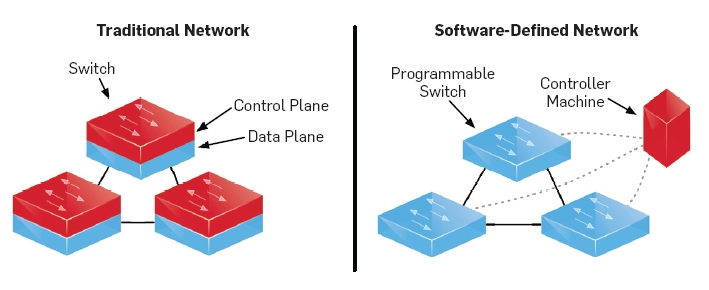
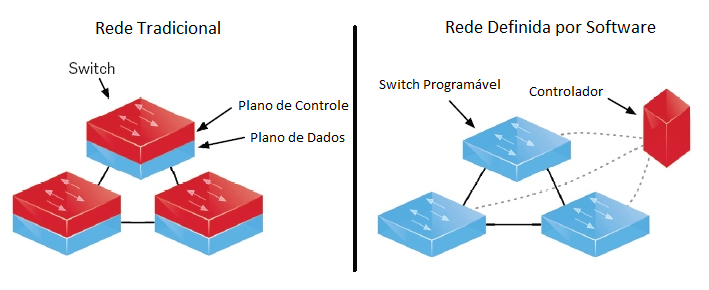
Avanços em Ferramentas, Definição e Conclusão

diff --git a/index.html b/index.html
@@ -67,18 +67,12 @@
 				<h1>Definição</h1>
 
 				<p>
-					Redes Definidas por Software (SDN) é uma tecnologia que, através da separação dos planos de controle e dados, facilita o gerenciamento da rede ao permitir que um único controlador seja capaz de controlar múltiplos dispositivos. Isso é alcançado ao tornar o controle da rede algo facilmente programável e abstraindo a infraestrutura da rede de modo a facilitar a adoção de novas aplicações e serviços de rede.
-				</p>
-
-				<h1>Separação dos Planos</h1>
-
-				<p>
-					A principal característica de SDN é a separação do plano de dados do plano de controle. Na arquitetura atual, estes estão acoplados e são individuais por cada nó da rede, atuando em conjunto de modo a encaminhar os pacotes recebidos. Após a separação, o plano de controle passa a ser responsável pela parte "inteligente" da rede, determinando quais serão as rotas seguidas por novos pacotes; por outro lado, o plano de dados fica responsável somente pelo próprio encaminhamento físico dos pacotes. Com SDN, um controlador passa a ser responsável pelo gerenciamento de múltiplos nós da rede, abrindo assim a possibilidade de toda a rede ser configurada a partir de um único nó central.
+					Redes Definidas por Software (SDN) são caracterizadas pela separação física entre o plano de controle e o plano de dados. Com essa separação, o controle de mecanismos de encaminhamento passa a ser implementado através de uma interface de programação implementada mediante um controlador, que fica localizado no plano de controle. Desse modo, através dessa interface o administrador de rede é capaz de inspecionar, definir e alterar as entradas da tabela de roteamento dos comutadores desejados, e estes passam a ser responsáveis somente pelo processo de encaminhamento dos pacotes recebidos. Além disso, com SDN um controlador passa a ser responsável pelo gerenciamento de múltiplos nós da rede, abrindo assim a possibilidade de toda a rede ser configurada a partir de um único nó central. Ao abstrair a infraestrutura da rede de modo a facilitar a construção de novas aplicações e serviços, a tecnologia busca reduzir a atual "calcificação" vista na Internet.
 				</p>
 
 				<img id="sdn-planos" src="imagens/sdn1.png">
 				<br>
-				<span><i>Comparação dos planos de controle e dados na arquitetura tradicional e com SDN. Retirado de: https://commsbusiness.co.uk/features/software-defined-networking-sdn-explained/</i></span>	
+				<span><i>Comparação dos planos de controle e dados na arquitetura tradicional e com SDN. Adaptado de: https://commsbusiness.co.uk/features/software-defined-networking-sdn-explained/</i></span>	
 
 				<h1>Controlador</h1>
 
@@ -87,7 +81,7 @@
 				</p>
 
 				<p>
-					A visão global da topologia da rede possibilita o desenvolvimento de análises detalhadas sobre características do fucionamento da rede, permitindo assim que sejam tomadas decisões eficientes sobre quais modificações devem ser implementadas para garantir o bom funcionamento do sistema. A existência dessa visão global, além de simplificar o processo de tomada de decisões, também facilita a implementação das ações determinadas por ele.
+					A visão global da topologia da rede possibilita o desenvolvimento de análises detalhadas sobre características do funcionamento da rede, permitindo assim que sejam tomadas decisões eficientes sobre quais modificações devem ser implementadas para garantir o bom funcionamento do sistema. A existência dessa visão global, além de simplificar o processo de tomada de decisões, também facilita a implementação dessas decisões para todos os elementos da rede.
 				</p>
 
 				<p>
@@ -97,7 +91,7 @@
 				<h1>APIs (Application Programming Interfaces)</h1>
 
 				<p>
-					Estas APIs são conjuntos de rotinas, protocolos e ferramentas responsáveis por possibilitar a comunicação entre os planos de controle e dados, assim como entre o controlador e aplicações que atuam diretamente na definição de políticas de rede. Essas APIs inicialmente dividem-se em Northbound, responsável pela comunicação entre essas aplicações utilizadas pelo administrador de rede e o plano de controle, e Southbound, responsável pela comunicação entre os plano de controle e dados.
+					Estas APIs são conjuntos de rotinas, protocolos e ferramentas responsáveis por possibilitar a comunicação entre os planos de controle e dados, assim como entre o controlador e aplicações que atuam diretamente na definição de políticas de rede. Essas APIs inicialmente dividem-se em Northbound, responsável pela comunicação entre essas aplicações utilizadas pelo administrador de rede e o plano de controle, e Southbound, responsável pela comunicação entre os planos de controle e dados.
 				</p>
 
 			</div>
@@ -110,7 +104,7 @@
 
 				<img id ="sdn-architecture" src="imagens/sdn2.png">
 				<br>
-				<span><i>Arquitetura simplificada de SDN. Retirado de: https://www.sdxcentral.com/sdn/definitions/inside-sdn-architecture/</i></span>
+				<span><i>Arquitetura simplificada de SDN. Adaptado de: https://www.sdxcentral.com/sdn/definitions/inside-sdn-architecture/</i></span>
 
 				<h1>Plano de Aplicações</h1>
 
@@ -161,27 +155,39 @@
 				<h1>Ferramentas</h1>
 
 				<p>
-					Uma importante característica da área de SDN é a presença de variadas ferramentas, muitas de código aberto, criadas de modo a implementar os elementos necessários para o funcionamento da tecnologia. O OpenFlow, sendo o primeiro protocolo de comunicação implementado tendo em mente a utilização em SDN, atualmente é a principal Southbound API utilizada. Muitas outras fazem uso desta API ou implentam melhorias baseando-se nela, como por exemplo o Open vSwitch (comutador virtual utilizando OpenFlow) e o OVSDB, que implementa o protocolo OpenFlow de modo a este ser compatível com o Open vSwitch. Outras ferramentas importantes são implementações de controladores, como por exemplo o OpenDaylight, que são essenciais para o funcionamento do plano de controle e consequentemente da rede.
+					Uma importante característica da área de SDN é a presença de variadas ferramentas, muitas de código aberto, criadas de modo a implementar os elementos necessários para o funcionamento da tecnologia. O OpenFlow, sendo o primeiro protocolo de comunicação implementado tendo em mente a utilização em SDN, atualmente é a principal Southbound API utilizada. Muitas outras ferramentas fazem uso desta API ou implementam melhorias baseando-se nela, como por exemplo o Open vSwitch (comutador virtual utilizando OpenFlow) e o OVSDB, que implementa o protocolo OpenFlow de modo a este ser compatível com o Open vSwitch. Outras ferramentas importantes são implementações de controladores, como por exemplo o OpenDaylight, que são essenciais para o funcionamento do plano de controle e consequentemente da rede.
 				</p>
 
 				<h1>Open Flow</h1>
 
 				<p>
-					Concebido inicialmente nas universidades de Stanford e Berkeley em 2007, este protocolo é responsável por permitir a manipulação e o acesso direto a equipamentos no plano de dados. Sua funcionalidade advém do uso de uma tabela de fluxos, com os fluxos recebidos sendo comparados aos valores na tabela e o equipamento de rede executando as ações correspondentes, conforme indicado. 
+					Concebido inicialmente nas universidades de Stanford e da Califórnia em Berkeley em 2007, este protocolo é responsável por permitir a manipulação e o acesso direto a equipamentos no plano de dados. Sua funcionalidade advém do uso de uma tabela de fluxos, com os fluxos recebidos sendo comparados aos valores na tabela e o equipamento de rede executando as ações correspondentes, conforme indicado. 
 				</p>
+
+				<p>
+					Servindo como a principal Southbound API utilizada por implementações de SDN, este protocolo foi adotado como o padrão pela Open Networking Foundation. Esta é uma organização dedicada à promoção e adoção de SDN, tendo como parceria múltiplas grandes empresas voltadas à área tecnológica, como Google, Microsoft, Cisco, dentre outras, e que atua principalmente incentivando o desenvolvimento de padrões abertos voltados à SDN.
+				</p>
+
+				<p>
+					A principal característica da classificação utilizada pelo OpenFlow é a abstração dos pacotes recebidos em fluxos. Um fluxo é caracterizado por um conjunto de pacotes, dentro de uma determinada janela de tempo, que possui valores iguais em alguns campos do cabeçalho. O protocolo disponibiliza um total de 12 campos que podem ser utilizados para a classificação dos fluxos recebidos, incluindo IPs de origem e destino, portas de origem e destino, o protocolo da camada de transporte, dentre outros. 
+				</p>
+
+				<p>
+					Assim, torna-se possível a criação de modelos de encaminhamento baseando-se em uma combinação de valores de cabeçalho definida pelo administrador de rede, o que abre uma gama de oportunidades para aqueles interessados em ter um controle maior sobre características da rede. De modo geral, o OpenFlow possibilita a implementação de funcionalidades de hardwares, utilizados na rede tradicional, através da definição de um conjunto simples de regras e de uma tabela de fluxos. As regras criadas incluem as ações que devem ser executadas pelos dispositivos no plano de dados, ações essas que, atuando diretamente nos fluxos examinados, incluem encaminhar, descartar, enviar para o controlador, dentre outras. A imagem abaixo demonstra, de modo simplificado, como atua o protocolo.
+				</p> 
 
 			<img id ="sdn-openflow" src="imagens/sdn3.png">
 				<br>
-				<span><i>Funcionamento do protocolo OpenFlow. Retirado de: http://www.fiber-optic-transceiver-module.com/openvswitch-vs-openflow-what-are-they-whats-their-relationship.html</i></span>
+				<span><i>Funcionamento do protocolo OpenFlow. Adaptado de: http://www.fiber-optic-transceiver-module.com/openvswitch-vs-openflow-what-are-they-whats-their-relationship.html</i></span>
 
 				<h1>Open vSwitch</h1>
 
 				<p>
-					O Open vSwitch é um comutador virtual distribuído, de código aberto, que implementa o protocolo OpenFlow. Sua função é simular comutadores em ambiente virtuais, permitindo que máquinas virtuais comuniquem-se entre si. A principal vantagem que ele traz é a capacidade de simular variadas topologias de rede em um ambiente limitado, permitindo que testes de novas funções virtuais de rede possam ser feitos com maior facilidade. 
+					O Open vSwitch é um comutador virtual distribuído, de código aberto, que implementa o protocolo OpenFlow. Sua função é simular comutadores em ambiente virtuais, permitindo que máquinas virtuais comuniquem-se entre si de modo equivalente a uma rede comum. Dentre as vantagens que ele traz, destaca-se a capacidade de simular variadas topologias de rede em um ambiente limitado, permitindo que testes de novas funções virtuais de rede possam ser feitos com maior facilidade.
 				</p>
 
 				<p>
-					Dentre os recursos oferecidos pelo Open vSwitch, destacam-se: criação e modificação de VLANs e firewalls, modelagem e enfileiramento do tráfego, assim como disponibilização de ferramentas para monitoramento da rede, como Netflow e sFlow.
+					O Open vSwitch foi projetado de modo a permitir configuração e programação de forma automatizada, sendo capaz de se integrar com múltiplos protocolos e padrões utilizados na área de redes. Dentre os recursos oferecidos pelo Open vSwitch, destacam-se: criação e modificação de VLANs e firewalls, modelagem e enfileiramento do tráfego, assim como ferramentas para monitoramento da rede, como o Netflow e o sFlow. Seu código foi escrito em C, tendo em mente facilitar sua portabilidade para variados ambientes.
 				</p>
 
 				<h1>OpenDaylight</h1>
@@ -191,7 +197,7 @@
 				</p>
 
 				<p>
-					Este controlador é implementado completamente por software, tendo sido desenvolvido de modo a funcionar através de um máquina virtual Java. Desse modo, ele pode ser implementado em qualquer plataforma que ofereça suporte à esta linguagem. Outra característica é a adoção de APIs Northbound abertas, o que facilita o desenvolvimento de aplicações que possam se comunicar com facilidade ao controlador.
+					Este controlador é implementado completamente por software, tendo sido desenvolvido de modo a funcionar através de uma máquina virtual Java. Desse modo, ele pode ser implementado em qualquer plataforma que ofereça suporte à esta linguagem. Outra característica é a adoção de APIs Northbound abertas, o que facilita o desenvolvimento de aplicações que possam se comunicar com facilidade ao controlador.
 				</p>
 
 				<h1>FlowVisor</h1>
@@ -209,48 +215,43 @@
 				<h1>Qualidade de Serviço (QoS)</h1>
 
 				<p>
-					A busca pela Qualidade de Serviço é uma das aplicações em redes de computadores. O QFlow é um exemplo de sistema que utiliza o paradigma SDN para garantir o isolamento de recursos e a qualidade de serviços para redes virtualizadas. A arquitetura do sistema QFlow é baseada no XenFlow, onde plano de controle é composto pelas máquinas virtuais Xen e o plano de dados por um comutador OpenFlow no domínio privilegiado, que possui acesso direto ao hardware.
+					Uma das possíveis aplicações de SDN pode ser observada na área de QoS. A busca por uma melhor experiência ao utilizar-se tecnologias relacionadas à rede é uma das áreas de pesquisa que mais recebe incentivo, partindo principalmente de grandes empresas distribuidoras de conteúdo. Umá possível implementação de sistema, partindo do paradigma SDN, para se obter uma melhor QoS em redes virtualizadas é o QFlow. A arquitetura do sistema QFlow é baseada no XenFlow, onde o plano de controle é composto por máquinas virtuais Xen e o plano de dados por um comutador OpenFlow com acesso direto ao hardware.
 				</p>
 				<p>
-					O QFlow utiliza filas de encaminhamento associadas a cada roteador virtual, para garantir o isolamento dos recursos de cada rede virtual. Já para garantir a Qualidade de Serviço (QoS), são utilizadas filas na matriz de encaminhamento OpenFlow associadas às máquinas virtuais com os limites de banda superior e inferior bem definidos, garantindo a qualidade do serviço oferecido.
+					O QFlow utiliza filas de encaminhamento associadas a cada roteador virtual, para garantir o isolamento dos recursos de cada rede virtual. Já para garantir a Qualidade de Serviço (QoS), são utilizadas filas na matriz de encaminhamento OpenFlow associadas às máquinas virtuais com os limites de banda superior e inferior bem definidos, garantindo assim a qualidade do serviço oferecido.
 				</p>
 
-				<h1>Software-defined Mobile Network (SDMN)</h1>
+				<h1>Rede Móvel Definida por Software (SDMN - Software-defined Mobile Network)</h1>
 
 				<p>
-					Espera-se que o tráfego de dados móveis cresça mais rápido que a Internet fixa nos próximos anos e as futuras redes móveis devem ser dimensionadas para acomodar o crescimento esperado do tráfego. Para acompanhar o crescimento do tráfego, as redes móveis precisam não apenas passar por processos de arquitetura para otimizar os recursos atuais, mas também para adicionar novos componentes / tecnologias que aumentem a capacidade. No entanto, redes de backhaul móveis contêm dispositivos extremamente complexos e inflexíveis.
-				</p>
-
-				<p>
-					 Nessas bases, o SDN é uma das tecnologias promissoras que deverá resolver essas limitações nas redes móveis atuais. A SDN fornece as melhorias necessárias em flexibilidade, escalabilidade e desempenho para adaptar a rede móvel para acompanhar o crescimento esperado. A rede móvel definida por software (SDMN) está direcionando a atual rede móvel para um modelo centrado em fluxo que emprega hardware barato e um controlador logicamente centralizado. O SDN permite a separação do plano de encaminhamento de dados dos planos de controle. Os switches, roteadores e gateways habilitados para SDN são controlados por meio de um sistema operacional / controlador SDN e são vistos como recursos virtuais. O plano de controle dos elementos de rede móvel pode ser implantado em uma nuvem de operador para computação.
+					Espera-se que o tráfego de dados móveis cresça mais rápido que a Internet fixa nos próximos anos e as futuras redes móveis devem ser dimensionadas para acomodar esse crescimento esperado do tráfego. Para acompanhar esse avanço, as redes móveis precisam passar por processos de atualização de suas arquiteturas não apenas de modo a otimizar os recursos atuais, mas também para adicionar novos componentes e tecnologias. No entanto, redes de backhaul móveis contêm dispositivos extremamente complexos e inflexíveis.
 				</p>
 
 				<p>
-					 Nesse paradigma, cada operador tem a flexibilidade de desenvolver seus próprios conceitos de rede, otimizar sua rede e atender às necessidades específicas de seus assinantes. Além disso, os switches de rede programáveis por software no SDMN usam metodologias modernas de programação ágil. Essas metodologias de software podem ser desenvolvidas, aprimoradas e atualizadas em ciclos muito mais curtos do que o desenvolvimento dos modernos dispositivos de rede de backhaul móvel de última geração.
+					Nessas bases, o SDN é uma das tecnologias promissoras que deverá resolver essas limitações nas redes móveis atuais. A SDN fornece as melhorias necessárias em flexibilidade para adaptar a rede móvel de modo que esta acompanhe o crescimento esperado. A proposta de redes móveis definidas por software (SDMN) direciona a arquitetura atual da rede móvel para um modelo centrado em fluxo, que emprega hardware barato e um controlador logicamente centralizado. Neste caso, o plano de controle dos elementos da rede móvel pode ser implantado em uma nuvem da operadora de telecomunicações responsável por oferecer a cobertura de acesso à rede.
 				</p>
 
 				<p>
-					 A aquisição da virtualização em redes móveis LTE traz a vantagem econômica de duas maneiras. Frist, SDMN requer hardware barato, como servidores de commodities e switches em vez de dispositivos de gateway de backhaul móveis caros. Segundo, a introdução da tecnologia SDN nas redes móveis permite a entrada de novos atores no ecossistema de redes móveis, como ISV (fornecedor independente de software), provedores de nuvem, ISP (Internet Service Providers) e isso mudará o modelo de negócios das redes móveis.
-				</p>
-
-				<h1>Software-defined Wide-Area Network (SD-WAN)</h1>
-
-				<p>
-					SD-WAN (ou SDWAN), que traduzido significa Rede de Área Ampla definida por Software, é uma aplicação específica de SDN com as conexões WAN, que são utilizadas para conectar redes corporativas - incluindo filiais e data centers - em grande distância geográfica.
+					Nesse paradigma, cada operador tem a flexibilidade de desenvolver seus próprios conceitos de rede, otimizar sua rede e atender às necessidades específicas de seus assinantes. Além disso, os switches de rede programáveis por software no SDMN usam metodologias modernas de programação ágil. Essas metodologias de software podem ser desenvolvidas, aprimoradas e atualizadas em ciclos muito mais curtos do que o desenvolvimento dos dispositivos modernos de rede de backhaul móvel de última geração.
 				</p>
 
 				<p>
-					Uma WAN pode ser usada, por exemplo, para conectar filiais a uma rede corporativa central ou para conectar datacenters separados por distância. No passado, essas conexões WAN frequentemente usavam tecnologia que exigia hardware proprietário especial. O movimento SD-WAN procura mover mais do controle de rede é movido para a "nuvem", usando uma abordagem de software.
+					A aquisição da virtualização em redes móveis LTE traz a vantagem econômica de duas maneiras. Primeiramente, SDMN requer hardware barato, como servidores de baixo custo e switches em vez de dispositivos de backhaul móveis caros. Segundo, a introdução da tecnologia SDN permite a entrada de novos atores no ecossistema de redes móveis, como fornecedores independentes de software (ISVs) e provedores de nuvem, introduções essas que potencialmente causarão um grande impacto no modelo de negócios de redes móveis que temos atualmente.
+				</p>
+
+				<h1>Rede de Área Ampla Definida por Software (SD-WAN - Software-defined Wide-Area Network)</h1>
+
+				<p>
+					SD-WAN (ou SDWAN) é uma aplicação que trata de conceitos tanto de SDN quanto de redes WAN. Estas redes são utilizadas para conectar elementos separados por largas áreas geográficas, frequentemente presentes em países ou continentes diferentes. A própria Internet pode ser considerada uma WAN.
 				</p>
 
 				<p>
-					O principal objetivo da tecnologia SD-WAN (SDWAN) é fornecer uma conexão WAN habilitada para nuvem de classe empresarial, segura e simples, com o máximo de tecnologia aberta e baseada em software possível. Isso pode ser usado para fornecer conectividade básica de WAN ou pode ser usado para serviços comerciais premium, como VPN, otimização de WAN e controle de entrega de aplicativos (ADC).
+					Uma WAN pode ser usada, por exemplo, para conectar filiais a uma rede corporativa central ou para conectar data centers separados por grandes distâncias. Atualmente, essas conexões frequentemente utilizam tecnologia que exige hardware proprietário especial. A proposta de SD-WAN procura mover mais do controle de rede para a nuvem, usando uma abordagem de software.
 				</p>
 
 				<p>
-					Espera-se que a tendência acelere nos próximos anos. O que começou como uma solução para conectividade de WAN de centro de filial e data center que requer menos equipamentos proprietários, parece estar se expandindo para uma ampla gama de ofertas e tecnologias SD-WAN (SDWAN), incluindo VPN, segurança, otimização de WAN, NaaS e política de aplicativos ao controle.
+					O principal objetivo de SD-WAN é fornecer uma conexão WAN habilitada para nuvem de classe empresarial, segura e simples, implementada utilizando ao máximo tecnologia aberta e baseada em software. Esta tecnologia pode ser usada para fornecer conectividade básica de WAN, ou para oferecer serviços comerciais premium, como VPN, otimização de WAN e controle de entrega de aplicativos.
 				</p>
-
 
 			</div>
 			<div class="conteudo fonte-pequena" id="desafios">
@@ -312,11 +313,13 @@
 				<h1>Conclusão</h1>
 
 				<p>
-					Apresentamos neste trabalho os principais conceitos de Redes definidas por Software, assunto que vem sendo alvo de muitos estudos e investimentos para variadas áreas da tecnologia. O conceito, resumidamente, se baseia na separação dos planos de controle e de dados para facilitar a configuração da rede, incentivando a criação de muitas aplicações.
+					Apresentamos neste trabalho os principais conceitos de SDN, assim como uma visão básica de sua arquitetura, suas principais ferramentas, aplicações, e os desafios que enfrenta atualmente. Esta é uma área que que vem sendo alvo de muitos estudos para variados ramos da tecnologia, sendo uma das mais promissoras no ramo de redes que possuímos atualmente.
 				</p>
+
 				<p>
-					Além do conceito básico, tentamos também permear aspectos como aplicação, ferramentas, arquiteturas e os desafios que esta tecnologia precisa superar para se tornar uma arquitetura padrão de redes. Com isso, esperamos ter enriquecido bastante a discussão sobre esse tema.
+					Como visto, as principais vantagens de redes definidas por software vem da tentativa de escapar da "calcificação" observada atualmente pela arquitetura de rede, ao tornar possível a implementação de novas tecnologias e protocolos. Este fato, acoplado ao barateamento de custos de capital e operação, a tornam um alvo de múltiplas empresas e organizações do setor de tecnologia de informação, com Google e Microsoft por exemplo atuando como patrocinadores para o desenvolvimento de pesquisa na área. Apesar disso, esta ainda é uma tecnologia em seus estados iniciais de amadurecimento, e muitos são os desafios que precisam ser superados perante as características da rede atual antes que SDN possa se tornar uma arquitetura padrão de redes.
 				</p>
+
 			</div>
 			<div class="conteudo fonte-pequena" id="faq">
 
@@ -362,7 +365,7 @@
 				</p>
 
 				<p>
-					[9] MATTOS, D. M. F.; DUARTE, O. C. M. B. <b>"QFlow: Um Sistema com Garantia de Isolamento e Oferta de Qualidade de Serviço para Redes Virtualizadas".</b> Disponível em: https://www.gta.ufrj.br/ftp/gta/TechReports/MaDu12.pdf  Acessado em 03 de Novembro de 2018
+					[9] MATTOS, D. M. F., and DUARTE, O. C. M. B. <b>"QFlow: Um Sistema com Garantia de Isolamento e Oferta de Qualidade de Serviço para Redes Virtualizadas", XXX Simpósio Brasileiro de Redes de Computadores e Sistemas Distribuídos - SBRC'2012, pp. 536-549, Ouro Preto, MG, Brazil, Maio, 2012.</b> Disponível em: https://www.gta.ufrj.br/ftp/gta/TechReports/MaDu12.pdf  Acessado em 03 de Novembro de 2018
 				</p>
 
 				<p>
